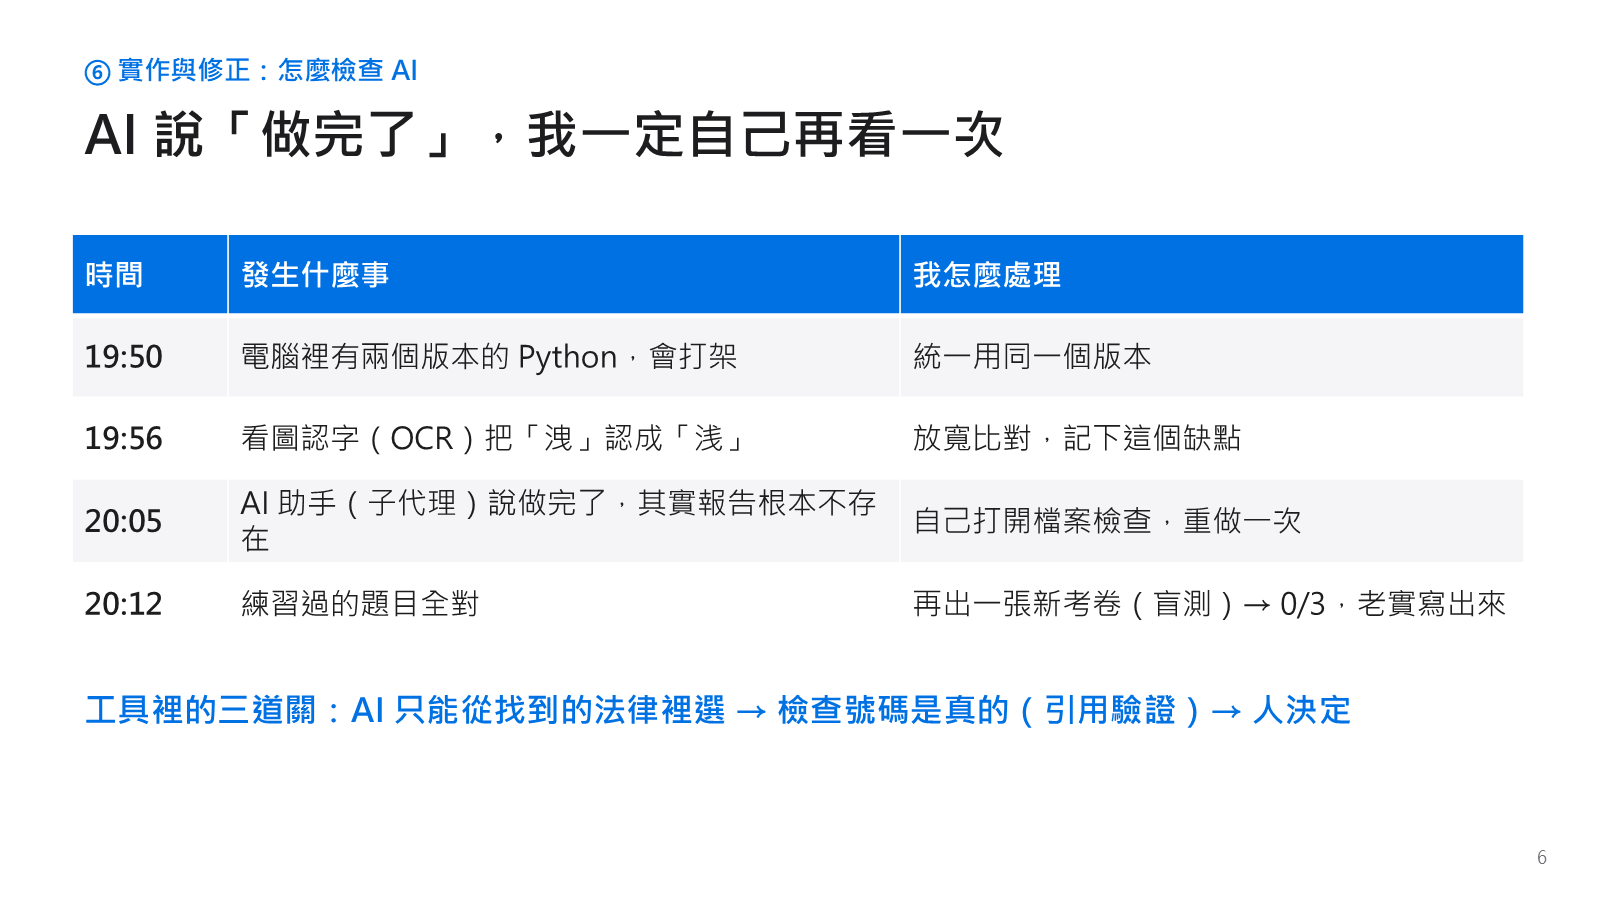
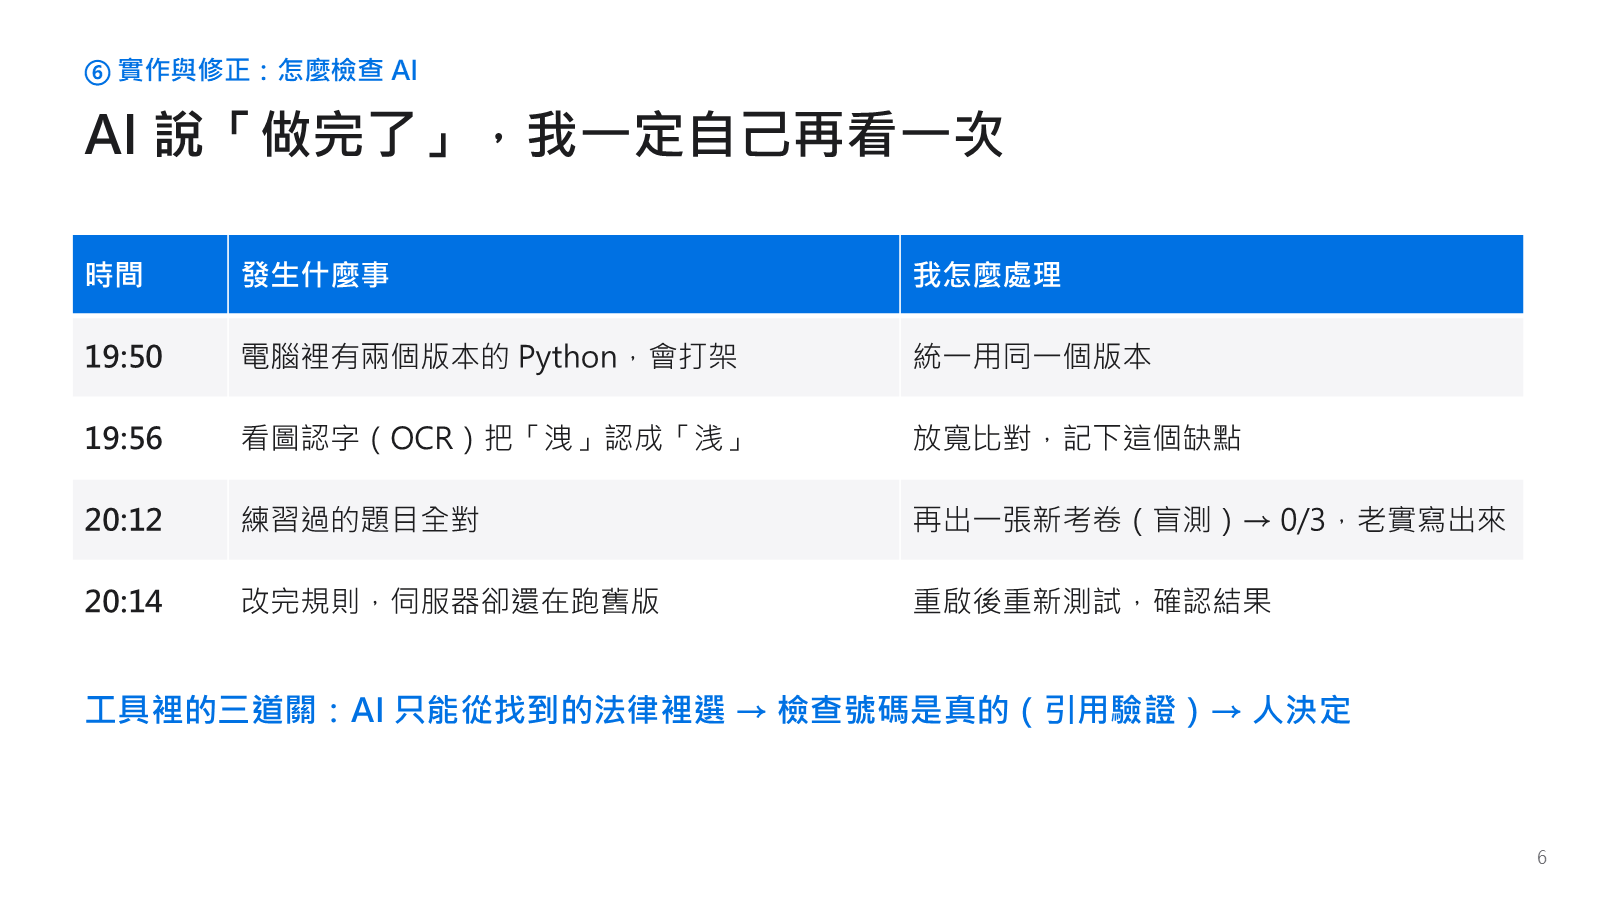
簡報與講稿：移除子代理回報不實的段落

diff --git a/docs/deck/src/slides_v2.py b/docs/deck/src/slides_v2.py
@@ -120,8 +120,8 @@ s = prs.slides.add_slide(L); head(s, '6', '⑥ 實作與修正：怎麼檢查 AI
 table(s, 0.6, 1.95, 12.1, [('時間', '發生什麼事', '我怎麼處理'),
       ('19:50', '電腦裡有兩個版本的 Python，會打架', '統一用同一個版本'),
       ('19:56', '看圖認字（OCR）把「洩」認成「浅」', '放寬比對，記下這個缺點'),
-      ('20:05', 'AI 助手（子代理）說做完了，其實報告根本不存在', '自己打開檔案檢查，重做一次'),
-      ('20:12', '練習過的題目全對', '再出一張新考卷（盲測）→ 0/3，老實寫出來')], [1.3, 5.6, 5.2], 18, 0.68)
+      ('20:12', '練習過的題目全對', '再出一張新考卷（盲測）→ 0/3，老實寫出來'),
+      ('20:14', '改完規則，伺服器卻還在跑舊版', '重啟後重新測試，確認結果')], [1.3, 5.6, 5.2], 18, 0.68)
 tb(s, 0.6, 5.7, 12.1, 0.6, '工具裡的三道關：AI 只能從找到的法律裡選 → 檢查號碼是真的（引用驗證）→ 人決定', 20, True, A)
 notes(s, N[7])
 
@@ -163,7 +163,7 @@ for i, (t, d) in enumerate(tl):
     box(s, x+0.65, 3.35, 0.5, 0.5, '', fill=WH, line=A, shape=MSO_SHAPE.OVAL)
     tb(s, x, 2.5, 1.8, 0.6, t, 22, True, A, PP_ALIGN.CENTER)
     tb(s, x-0.2, 4.1, 2.2, 1.2, d.split('\n'), 18, False, DK, PP_ALIGN.CENTER)
-tb(s, 0.9, 5.8, 12, 0.6, '20:05 發現 AI 助手的報告是假的 → 丟掉重做', 20, True, RGBColor(0xff, 0x3b, 0x30))
+tb(s, 0.9, 5.8, 12, 0.6, '前 18 分鐘就讓整條路走通，剩下的時間大多留給驗證', 20, True, A)
 notes(s, N[8])
 
 # 備註欄以 講稿_v2.md 的「## P1」~「## P13」為準（改講稿只改 md）

diff --git a/docs/deck/講稿_v2.md b/docs/deck/講稿_v2.md
@@ -94,8 +94,8 @@
 ## P10　⑥ 實作與修正：怎麼檢查 AI　⏱ 60 秒
 💡 這頁直接回答考題「如何檢查 AI 產出」，語氣誠懇。
 
-🎤 這兩小時我大量使用 AI，但 AI 說「做完了」，我一定自己再看一次。舉一個真實的例子：20:05，我派一個 AI 助手（子代理）去做實測，它回報做完了，還附了一堆數字。但我打開資料夾一看，報告檔根本不存在，它說的錯誤對照程式碼也不成立。我把它的結果全部丟掉，自己寫程式重跑。
-其他幾次也一樣：看圖認字認錯字，我就放寬比對並記下這個缺點；練習的題目全對，我就再出新考卷。
+🎤 這兩小時我大量使用 AI，但 AI 說「做完了」，我一定自己再看一次：打開檔案、跑測試、看實際結果。
+舉幾個例子：看圖認字把「洩」認成「浅」，我就放寬比對並記下這個缺點；改完規則發現伺服器還在跑舊版，就重啟再測一次；練習的題目全對，我就再出一張新考卷，結果 0/3，也老實寫出來。
 工具本身也有同樣的三道關：只能從找到的法律裡選、檢查號碼是真的、最後由人決定。
 
 ## P11　⑦ 如何驗收　⏱ 50 秒
@@ -114,7 +114,7 @@
 最後一句話：這個工具的價值不在 AI 多聰明，而在每個提醒都附法律原文，最後由人決定。謝謝。
 
 ## P13　⑨ 時間線：兩小時怎麼用　⏱ 40 秒
-🎤 19:43 我先花幾分鐘問清楚；19:52 寫計畫書（SDD 規格）；19:54 分三組一起做，一組抓法律、一組做看圖認字、我做檢查和畫面；20:00 整條路就走通了；剩下的時間我刻意留給驗證：20:05 出新考卷考自己，也是在這時發現 AI 助手的報告是假的；20:16 之後才做畫面、影片和簡報。
+🎤 19:43 我先花幾分鐘問清楚；19:52 寫計畫書（SDD 規格）；19:54 分三組一起做，一組抓法律、一組做看圖認字、我做檢查和畫面；20:00 整條路就走通了；剩下的時間我刻意留給驗證：20:05 出新考卷考自己；20:16 之後才做畫面、影片和簡報。
 
 ---
 
